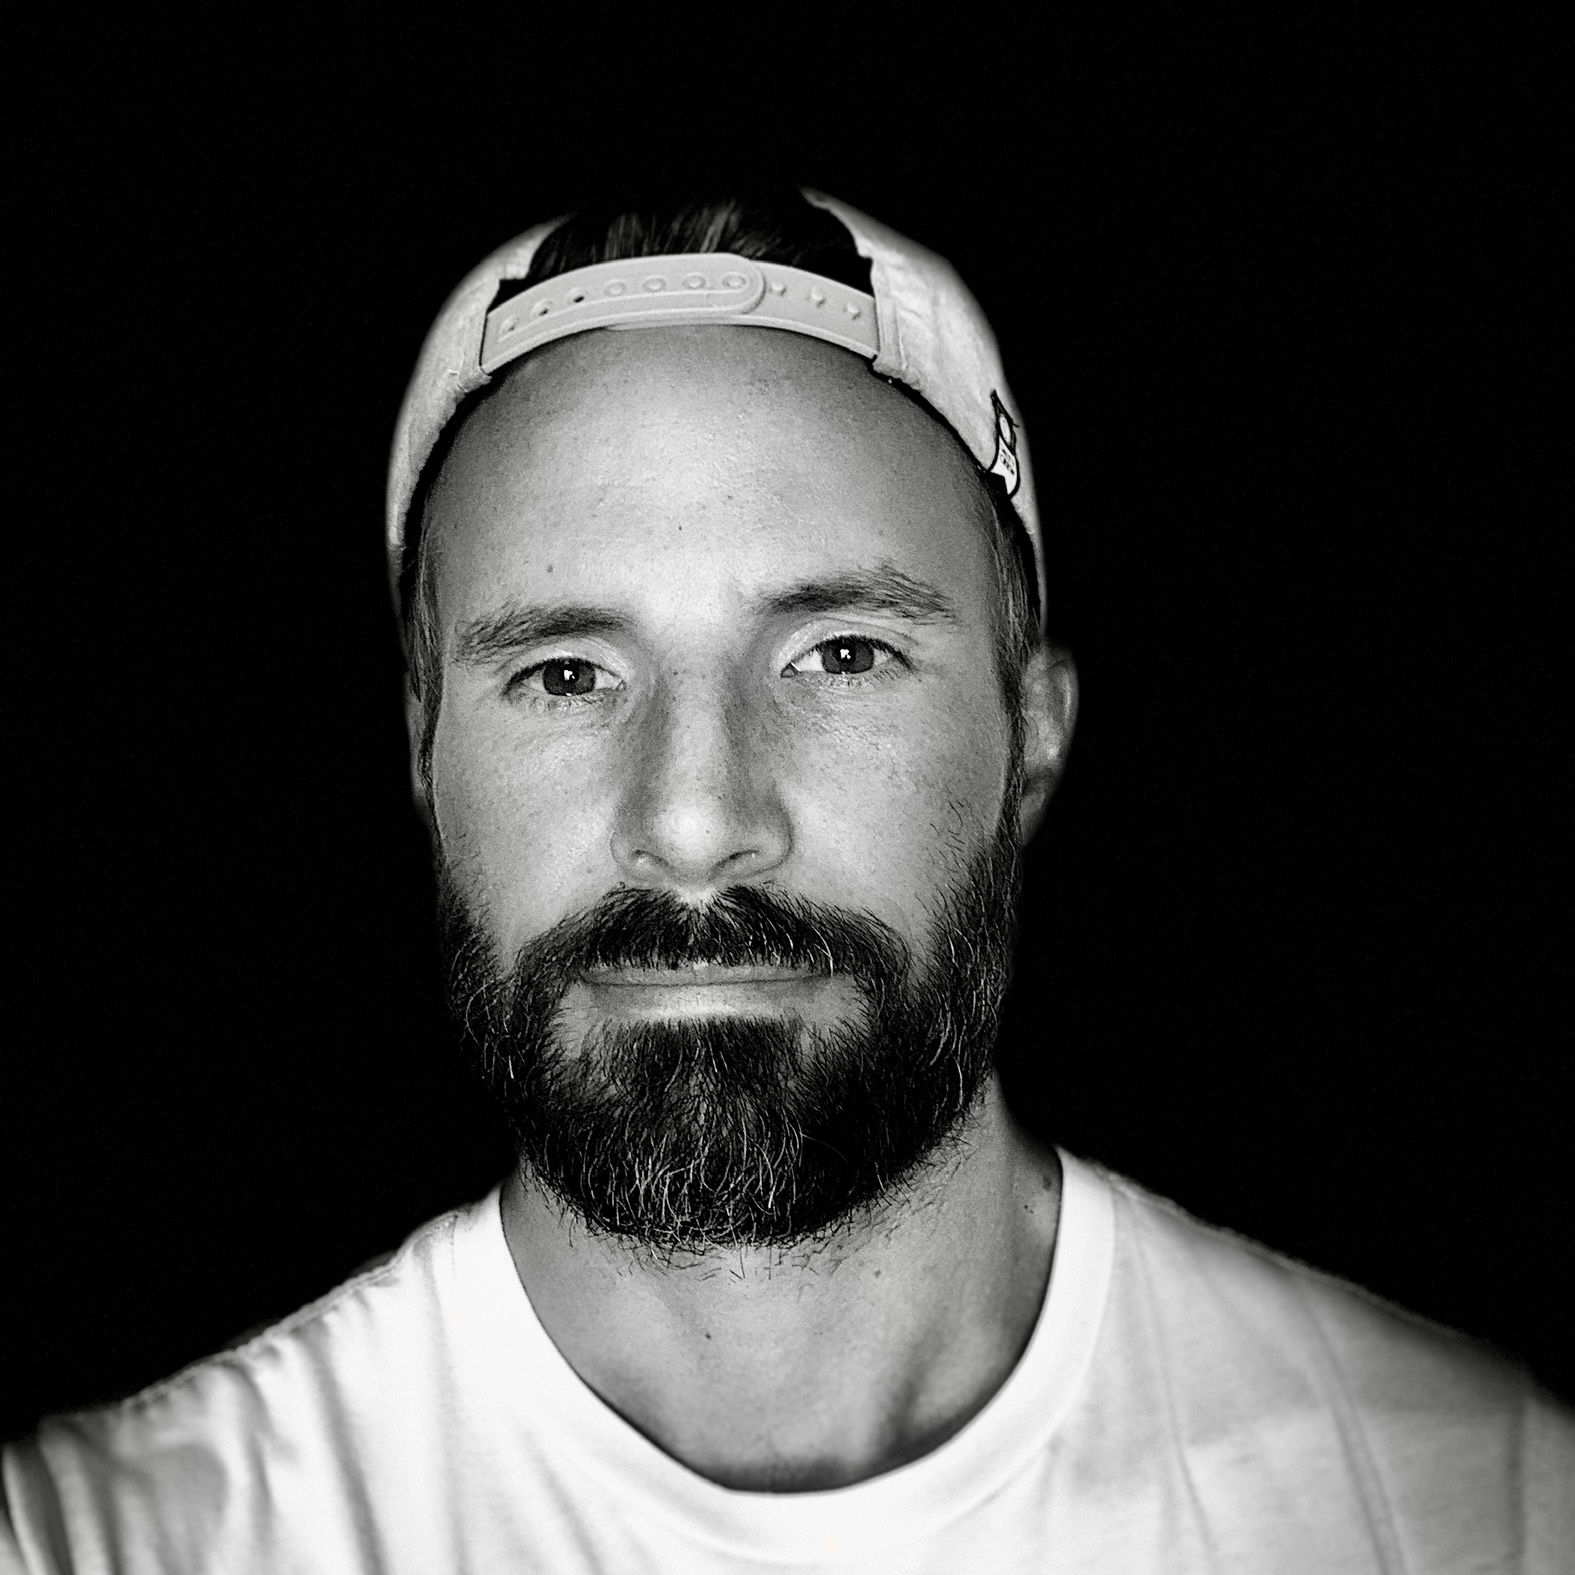
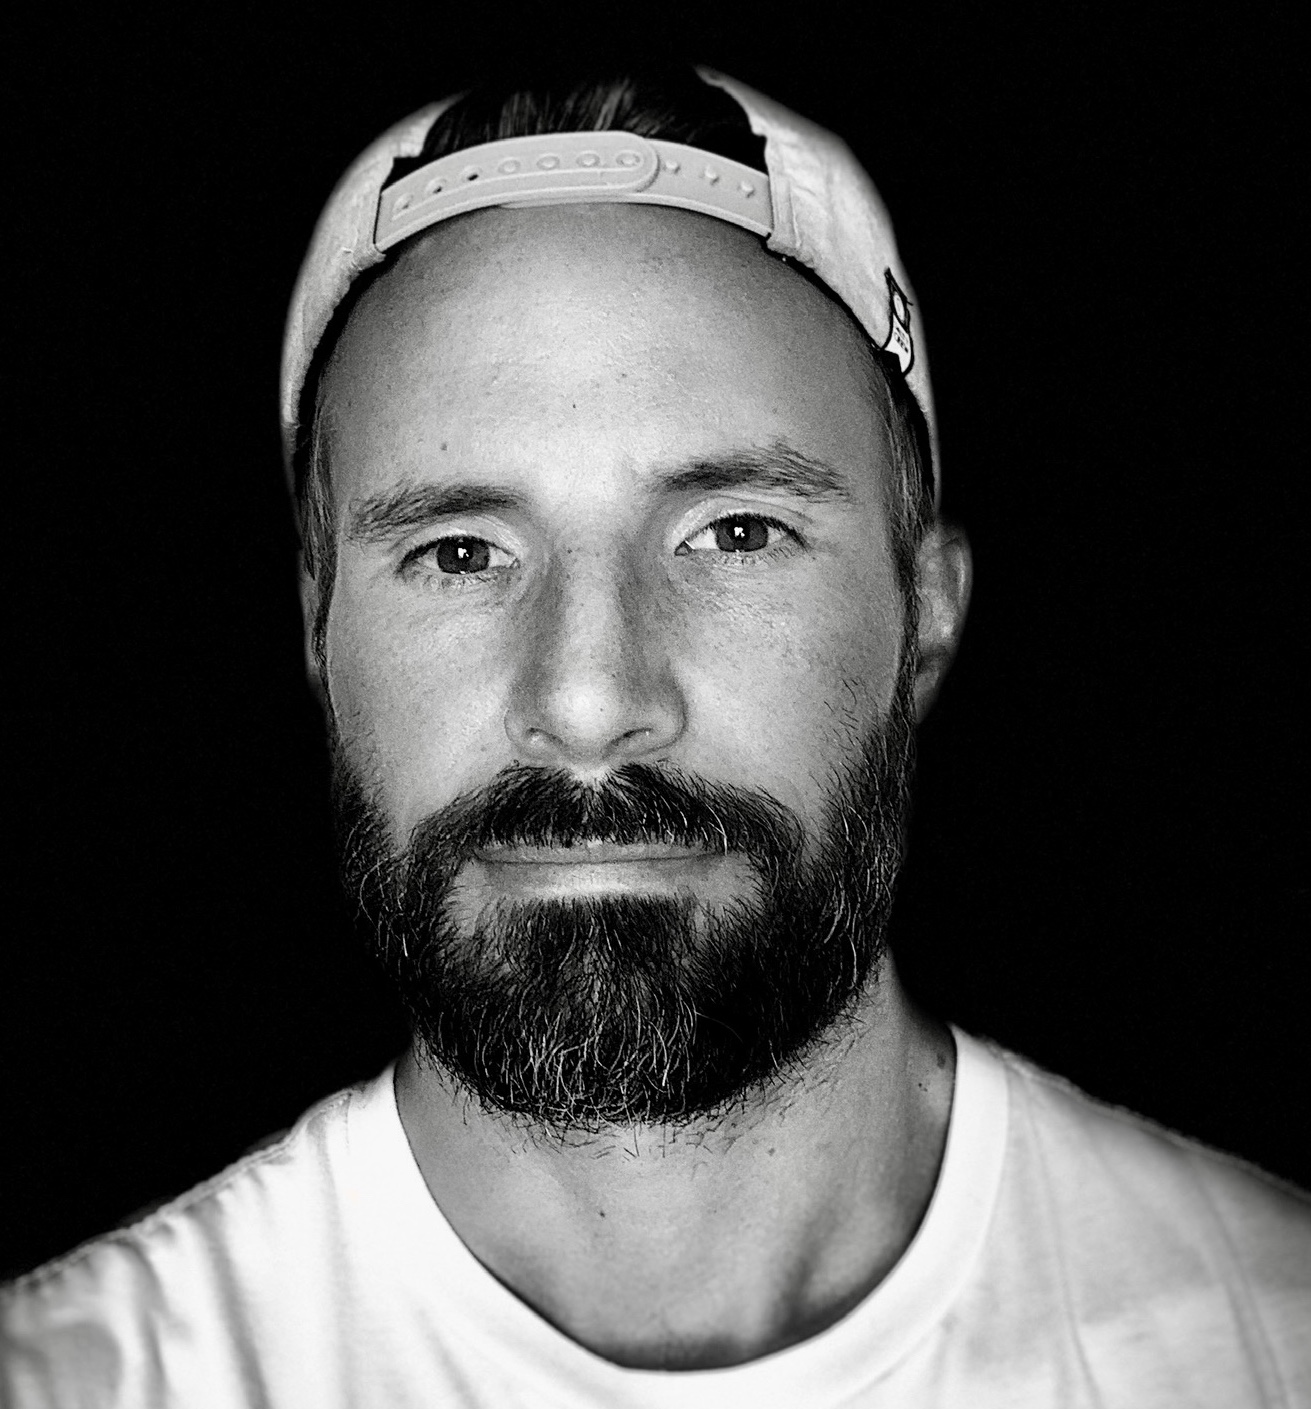
responsive design ok

diff --git a/assets/styles/_about.scss b/assets/styles/_about.scss
@@ -7,45 +7,43 @@
      }
 }
 
+.picture > img {
+    width: 18rem;
+    margin: 0;
+    border-radius: 10px;
+}
+
+.picture {
+    float: left;
+}
+
 .about {
     display: grid;
-    grid-template-columns: 0.5fr 1.5fr;
-    padding: 3rem;
+    grid-template-columns: 1fr;
     animation: fadeInAnimation ease 3s;
     animation-iteration-count: 1;
     animation-fill-mode: forwards;
+    padding-left: 5rem;
+    padding-right: 5rem;
 }
-
-// .about2 {
-//     padding: 3rem;
-//     animation: fadeInAnimation ease 3s;
-//     animation-iteration-count: 1;
-//     animation-fill-mode: forwards;
-// }
 
 strong {
     font-size: 1.5rem;
     color: $secondary;
 }
 
-.content > h1 {
+.about > h1 {
     font-family: $sans-serif;
     color: $secondary;
     text-align: center;
     font-size: 2rem;
 }
 
-.content > p {
+.container > p {
     font-family: $font-family;
     color: $gray;
     padding: 1rem;
     font-size: 1.2rem;
-}
-
-.content {
-    display: flex;
-    flex-direction: column;
-    justify-content: center;
 }
 
 .picture {
@@ -82,19 +80,6 @@ li {
     align-items: flex-end;
 }
 
-.mytools {
-    display: grid;
-    grid-template-columns: repeat(4,300px);
-    grid-template-rows: repeat(3,200px);
-    grid-column-gap: 20px;
-    grid-row-gap: 20px;
-    margin: 10px auto 0;
-    text-align: center;
-    width: 90%;
-    justify-content: space-around;
-    align-items: flex-end;
-}
-
 .descrip {
     font-family: $font-family;
     color: $gray;
@@ -105,26 +90,6 @@ li {
 .myskill {
     animation-duration: 3s;
 }
-
-// .zoom-in-out-box {
-//     margin: 24px;
-//     width: 50px;
-//     height: 50px;
-//     background: #f50057;
-//     animation: zoom-in-zoom-out 3s ease infinite;
-//   }
-  
-//   @keyframes zoom-in-zoom-out {
-//     0% {
-//       transform: scale(1, 1);
-//     }
-//     50% {
-//       transform: scale(1.5, 1.5);
-//     }
-//     100% {
-//       transform: scale(1, 1);
-//     }
-//   }
   
 @media screen and (max-width: 1300px) {
     .mytools {
@@ -133,12 +98,10 @@ li {
     }
 }
 @media screen and (max-width: 992px) {
-    .about {
-        grid-template-columns: 1fr;
-    }
 
-    .picture {
-        margin-top: 2rem;
+    .content {
+        display: flex;
+        flex-direction: column;
     }
 
     .text > p {
@@ -156,21 +119,40 @@ li {
     }
 }
 
+@media screen and (max-width: 740px) {
+    .picture {
+        float: none;
+    }
+}
 
 @media screen and (max-width: 600px) {
-    .myskills {
-        display: flex;
-        flex-direction: column;
-        align-items: center;
-        margin: 0 auto;
+
+    // .myskills {
+    //     display: flex;
+    //     flex-direction: column;
+    //     align-items: center;
+    //     margin: 0 auto;
+    // }
+
+    .about {
+        padding: 1rem;
     }
 
-    .mytools {
-        display: flex;
-        flex-direction: column;
-        align-items: center;
-        margin: 0 auto;
-        padding-top: 1.5rem;
+    .myskills {
+        display: grid;
+        grid-template-columns: repeat(2,180px);
+        grid-template-rows: repeat(3,150px);
+        grid-column-gap: 20px;
+        grid-row-gap: 10px;
+        margin: 10px auto 0;
+        text-align: center;
+        width: 90%;
+        justify-content: space-around;
+        align-items: flex-end;
+    }
+
+    .descrip {
+        font-size: 1.1rem;
     }
 }
 

diff --git a/assets/styles/_navbar.scss b/assets/styles/_navbar.scss
@@ -130,3 +130,46 @@ $hamburger-spacing:8px;
     }
   }
 }
+
+@media screen and (max-width: 600px) {
+
+  %ball{
+    width:70px;
+    height:70px;
+    margin-left:-60px;
+    line-height:70px;
+  }
+
+  .menu{
+    width:365px;
+    height: 115px;
+  }
+
+  .menu-open:checked ~ .menu-item:nth-child(3) {
+    transition-duration: 190ms;
+    transform: translate3d(62px, 0, 0);
+  }
+
+  .menu-open:checked ~ .menu-item:nth-child(4) {
+    transition-duration: 290ms;
+    transform: translate3d(130px, 0, 0);
+  }
+
+  .menu-open:checked ~ .menu-item:nth-child(5) {
+    transition-duration: 390ms;
+    transform: translate3d(196px, 0, 0);
+  }
+
+  .menu-open:checked ~ .menu-item:nth-child(6) {
+    transition-duration: 490ms;
+    transform: translate3d(262px, 0, 0);
+  }
+
+  .menu-open-button:hover,
+  .menu-item:hover {
+    background: #468189;
+    border-radius: 100%;
+    color: white;
+}
+
+}

diff --git a/assets/styles/_home.scss b/assets/styles/_home.scss
@@ -127,3 +127,24 @@
         grid-template-rows: 1fr 1fr 1fr;
     }
 }
+
+@media screen and (max-width: 600px) {
+    .me > h1 {
+        font-size: 2.8rem;
+    }
+
+    .me > h2 {
+        font-size: 1.5rem;
+    }
+
+    .me > h3 {
+        font-size: 1rem;
+    }
+
+    .aboutme > h2,
+    .projects > h2,
+    .skillss > h2,
+    .contact > h2 {
+    font-size: 1.5rem;
+    }
+}

diff --git a/assets/styles/_projects.scss b/assets/styles/_projects.scss
@@ -60,4 +60,5 @@
     color: $secondary; 
     text-shadow: 2px 2px 4px rgb(0 0 0 / 50%); 
     font-weight: bold; 
+    top: 43%;
   }

diff --git a/assets/styles/_homebtn.scss b/assets/styles/_homebtn.scss
@@ -50,3 +50,9 @@ $color: $blue;
     }
   }
 }
+
+@media screen and (max-width: 600px) {
+  .button {
+    font-size: 0.7rem;
+  }
+}

diff --git a/assets/styles/_variable.scss b/assets/styles/_variable.scss
@@ -1,5 +1,5 @@
 //Couleurs
-$primary: #000000;
+$primary: #010101;
 $secondary: #F1F1F1;
 $blue: #468189;
 $cyan: #A2CECB;
